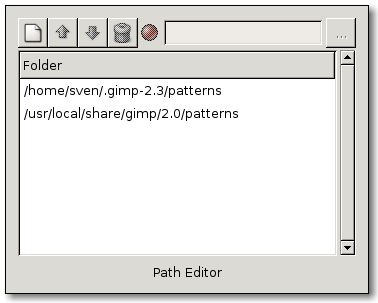
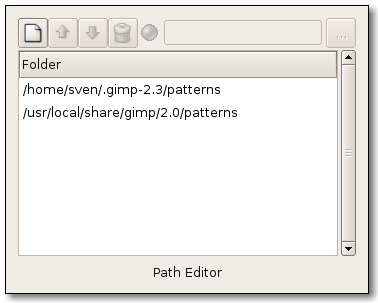
added an explanatory label to GimpBrowser.
2005-06-27  Sven Neumann  <sven@gimp.org>

	* tools/widgets.c: added an explanatory label to GimpBrowser.

	* libgimpwidgets/images: updated screenshots.

Former-commit-id: 1e0b0eda1ee3f41479f4489c00f20ceba35a35e7

Changed region(s): [[0.0291, 0.0594, 0.9603, 0.8614]]

diff --git a/devel-docs/tools/widgets.c b/devel-docs/tools/widgets.c
@@ -606,15 +606,39 @@ literal|0.5
 argument_list|,
 literal|0.5
 argument_list|,
-literal|0.5
+literal|1.0
 argument_list|,
-literal|0.0
+literal|1.0
 argument_list|)
 expr_stmt|;
 name|browser
 operator|=
 name|gimp_browser_new
 argument_list|()
+expr_stmt|;
+name|gtk_box_pack_start
+argument_list|(
+name|GTK_BOX
+argument_list|(
+name|GIMP_BROWSER
+argument_list|(
+name|browser
+argument_list|)
+operator|->
+name|left_vbox
+argument_list|)
+argument_list|,
+name|gtk_label_new
+argument_list|(
+literal|"TreeView goes here"
+argument_list|)
+argument_list|,
+name|TRUE
+argument_list|,
+name|TRUE
+argument_list|,
+literal|0
+argument_list|)
 expr_stmt|;
 name|gtk_container_add
 argument_list|(
